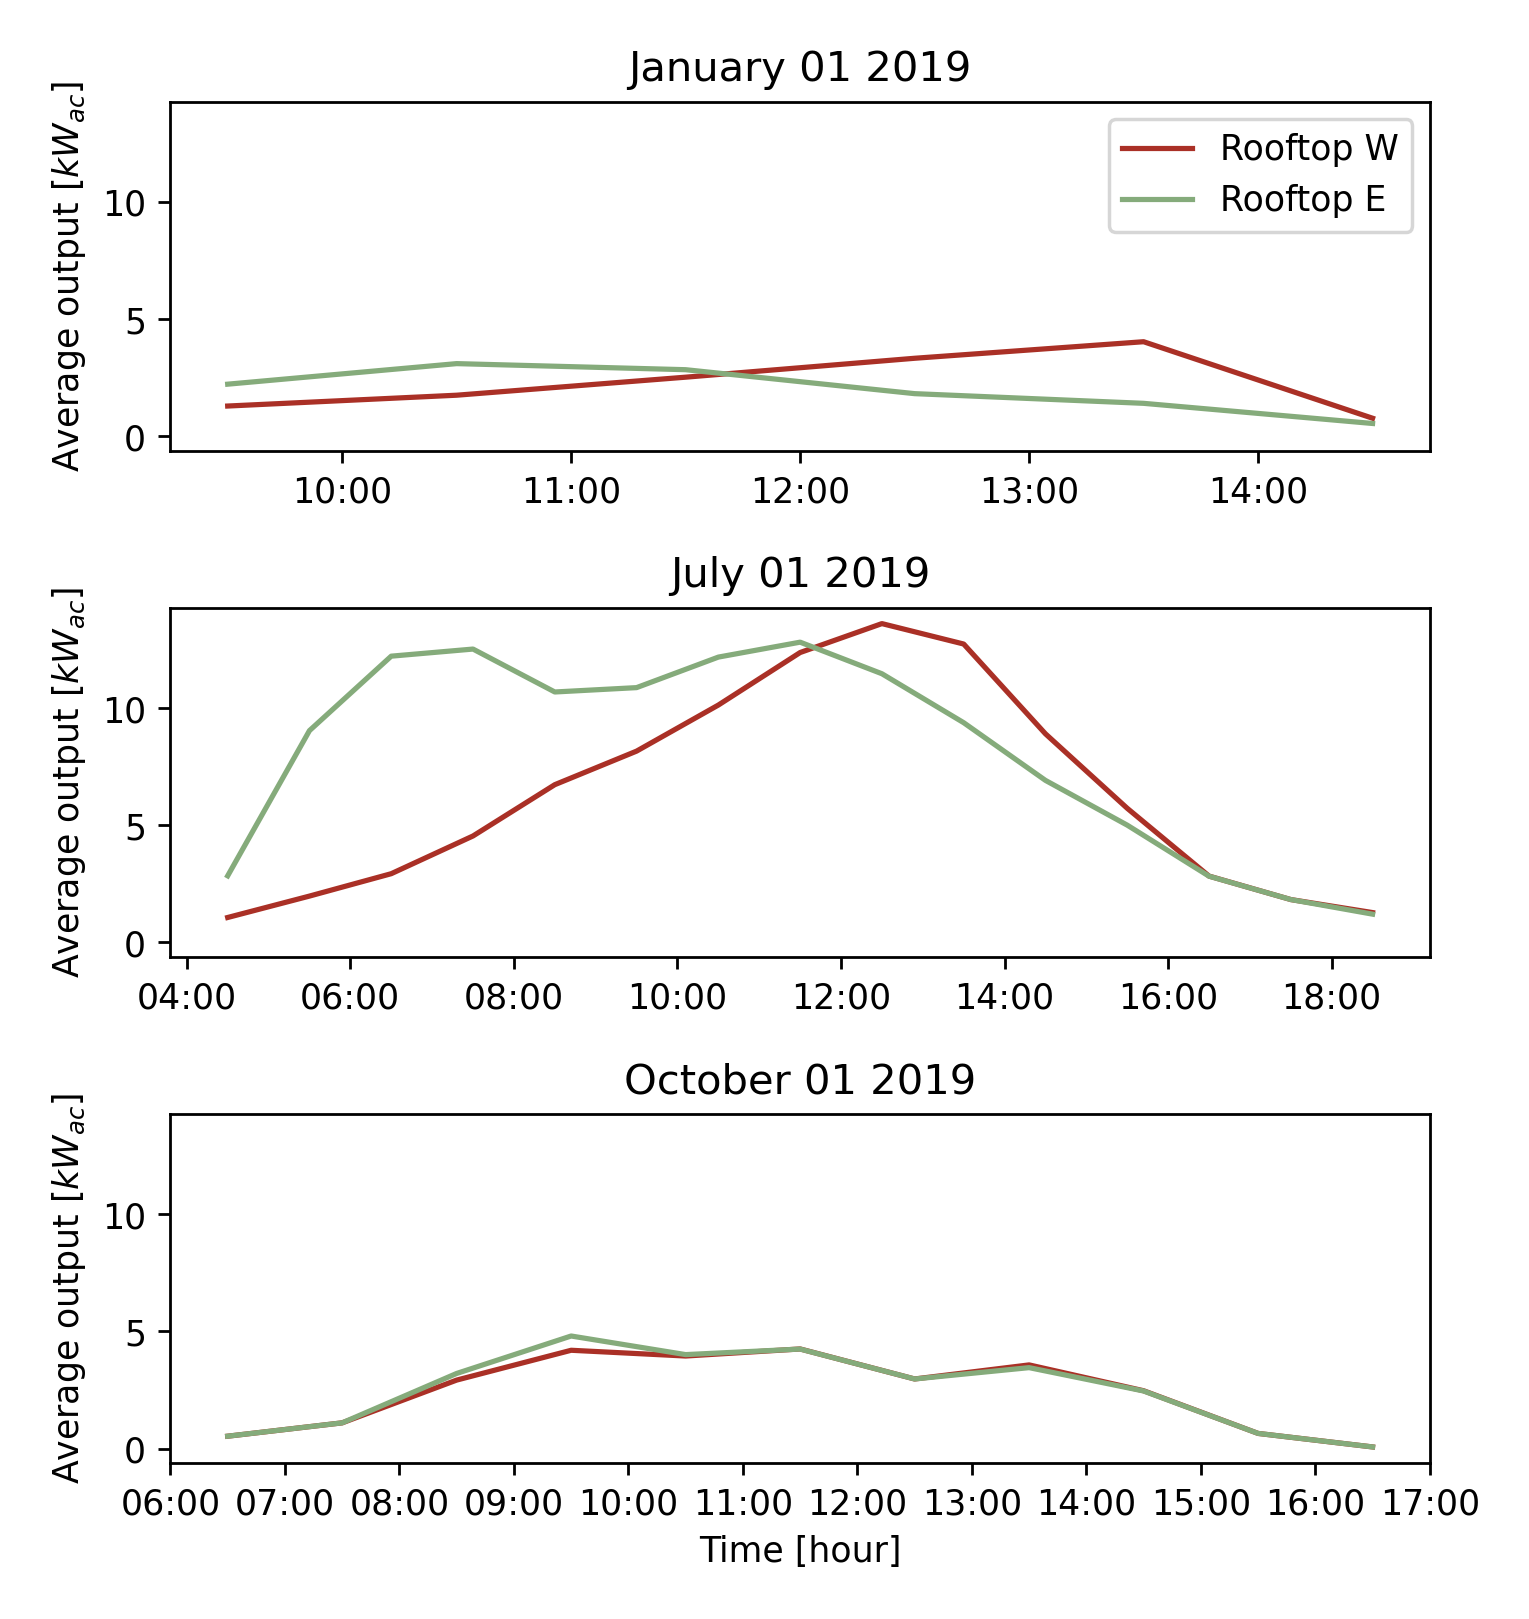
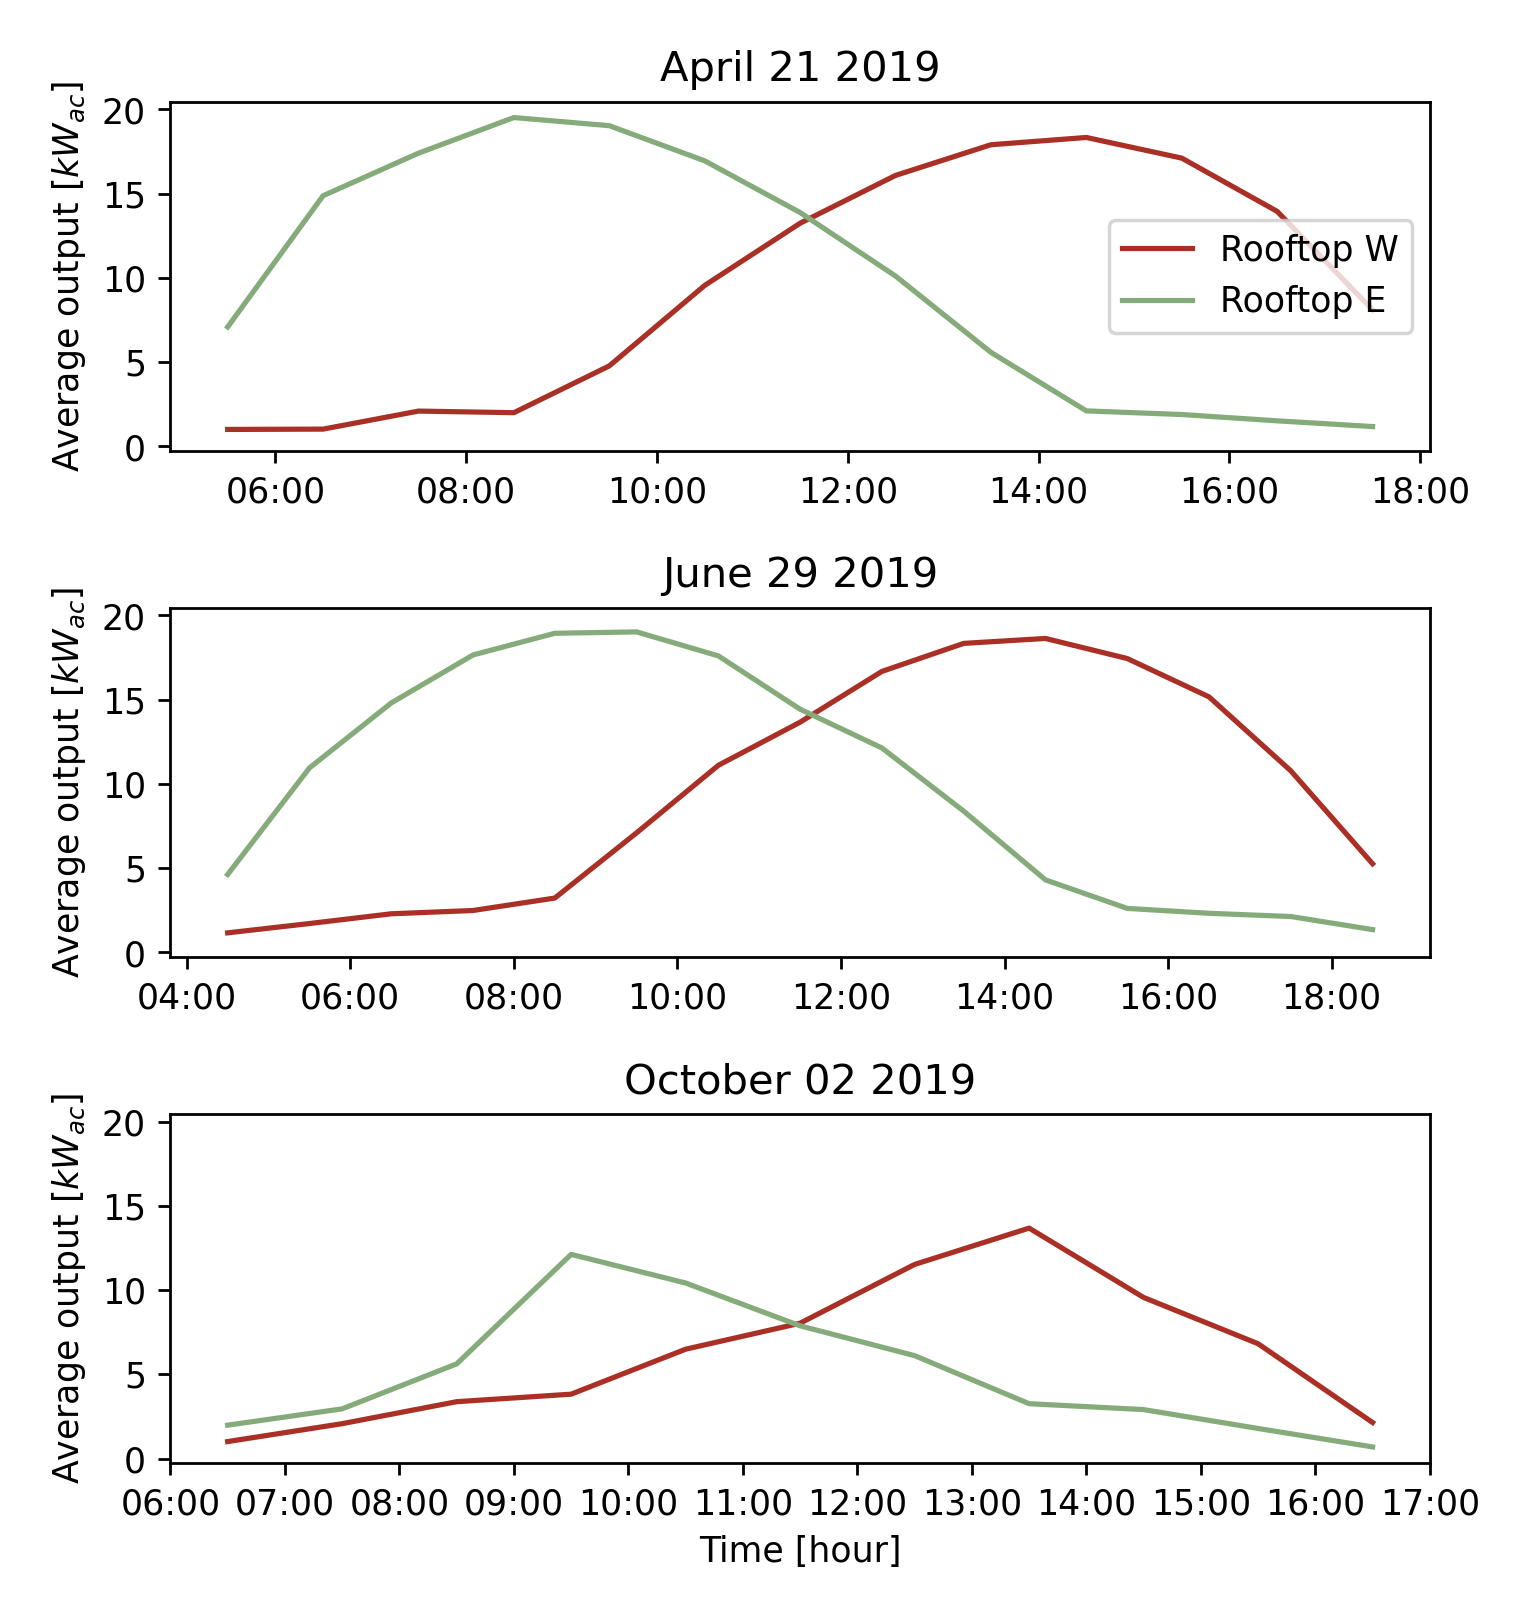
Use the best day in each season for the daily line plots

diff --git a/src/question3.py b/src/question3.py
@@ -173,13 +173,24 @@ def create_bar_chart_per_building():
         f'../output/question4/total_annual_yield_ac_building.png')
 
 
-def create_line_chart_for_day(dates):
+def find_best_day(start_day, end_day):
+    # print(irradiance.resample('1D').mean())
+    irradiance_days = irradiance.loc[start_day: end_day].resample('1D').mean()
+    return irradiance_days.GHI.idxmax().strftime('%Y-%m-%d')
+
+
+def create_line_chart_for_day():
     """
     Create a line chart for the AC power output for the given dates.
 
     Parameters:
         dates (list): List of dates that should be plotted
     """
+    spring_day = find_best_day('2019-03-01', '2019-04-30')
+    summer_day = find_best_day('2019-06-01', '2019-08-31')
+    fall_day = find_best_day('2019-10-01', '2019-11-30')
+
+    dates = (spring_day, summer_day, fall_day)
     for building_name, building in buildings.items():
         # Create a new chart for each building
         figure, axes = utils.plots.create_plot_with_subplots(len(
@@ -270,7 +281,7 @@ create_bar_chart_for_all_modules('specific_annual_yield_dc', filename='specific_
 create_bar_chart_for_all_modules(
     'annual_inverter_efficiency', filename='annual_inverter_efficiency', ylabel='Annual inverter efficiency')
 create_bar_chart_per_building()
-create_line_chart_for_day(['2019-01-01', '2019-07-01', '2019-10-01'])
+create_line_chart_for_day()
 
 # Save the buildings info in a new JSON file
 # utils.files.save_json_file(
